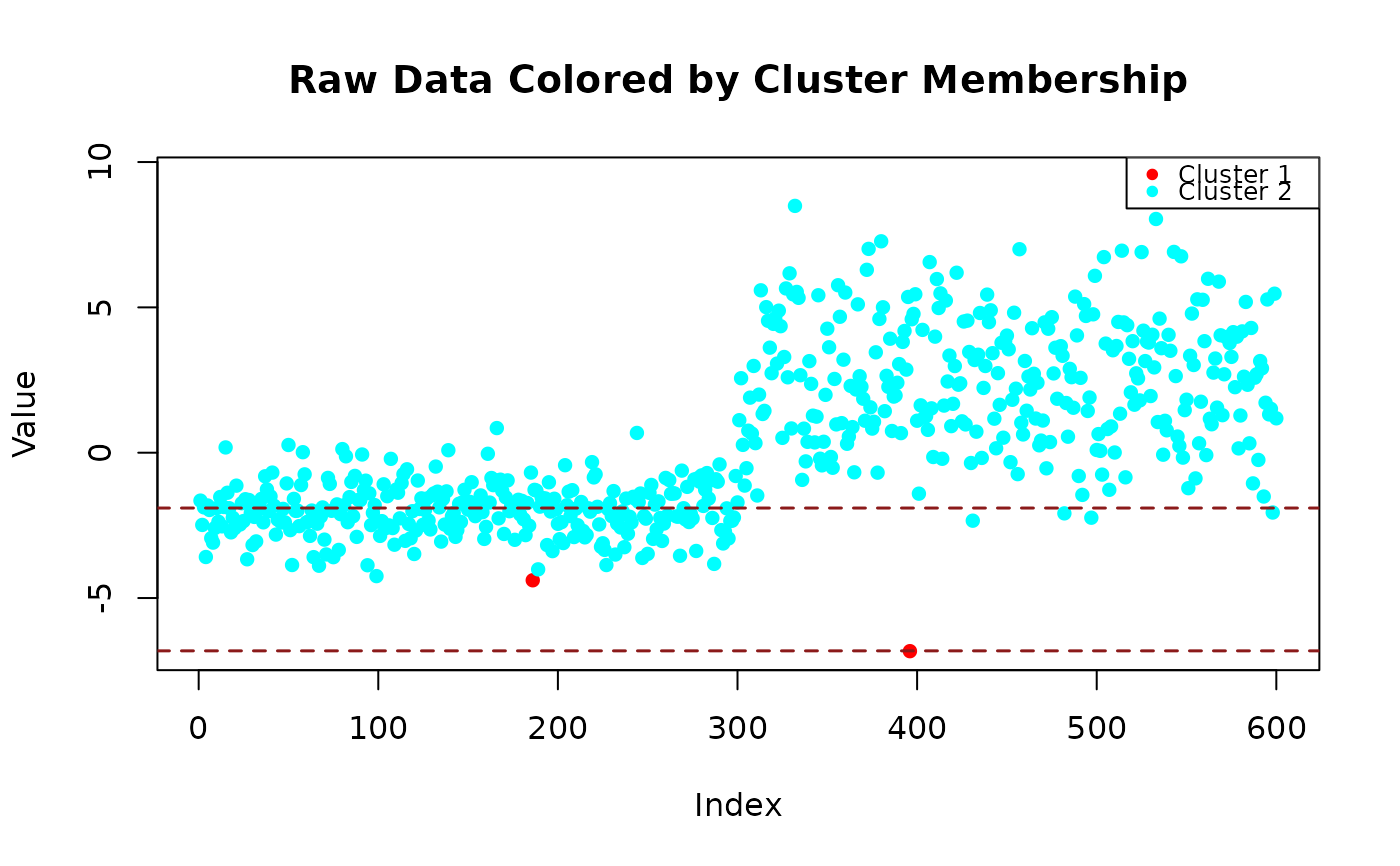
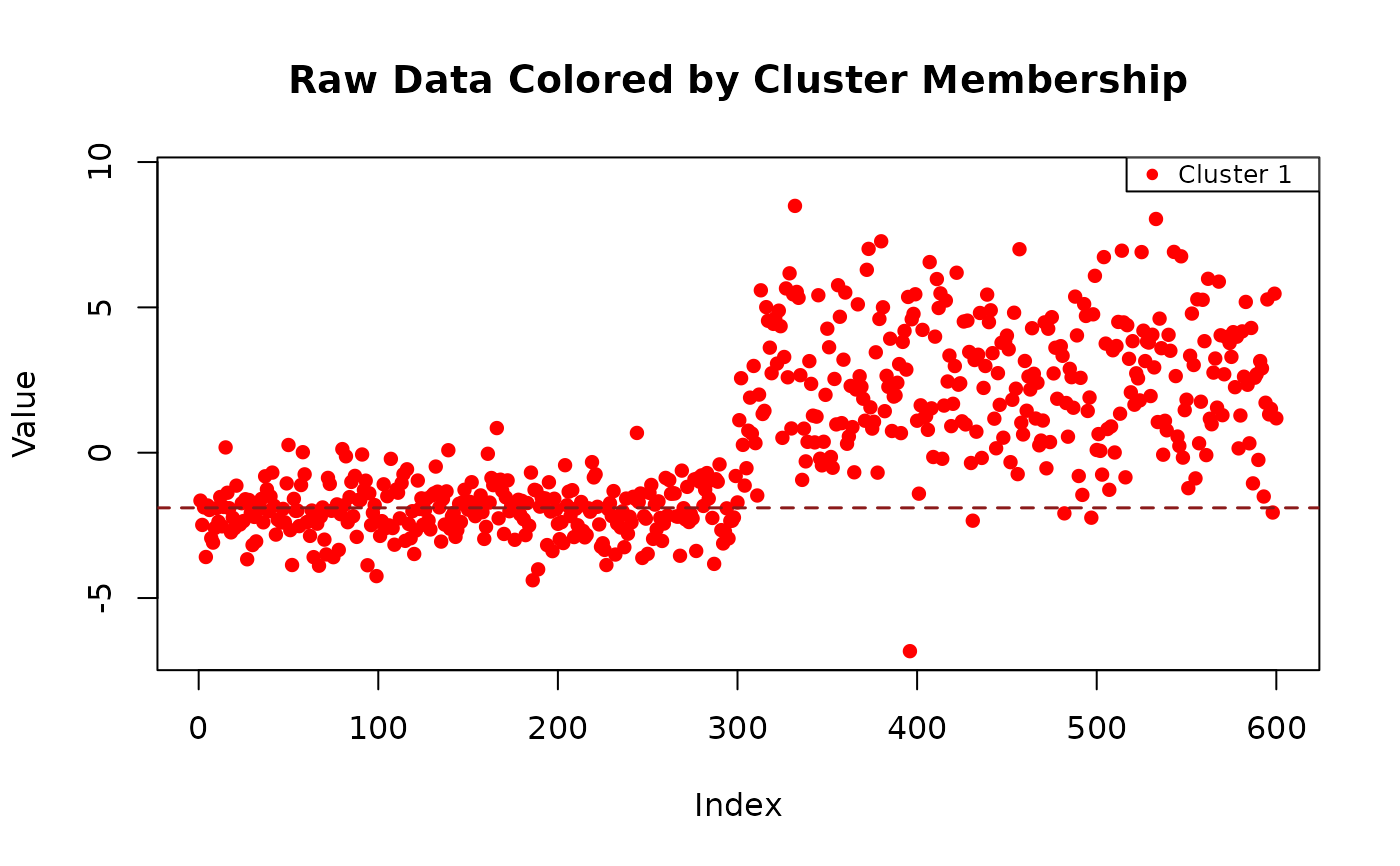
Deploying to gh-pages from @ jcunow/RootScanR@da8b1179eacbaf82645a6c7e2d52472cd3d2838b 🚀

diff --git a/index.html b/index.html
@@ -65,114 +65,109 @@
   </div>
 </nav><div class="container template-home">
 <div class="row">
-  <main id="main" class="col-md-9"><div class="section level1">
-<div class="page-header"><h1 id="rootscanr---r-package">RootScanR - R package<a class="anchor" aria-label="anchor" href="#rootscanr---r-package"></a>
-</h1></div>
-<p><br></p>
+  <main id="main" class="col-md-9"><hr>
 <div class="section level2">
-<h2 id="overview">Overview<a class="anchor" aria-label="anchor" href="#overview"></a>
+<h2 id="rootscanr-extract-root-traits-from-images">RootScanR: Extract Root Traits from Images<a class="anchor" aria-label="anchor" href="#rootscanr-extract-root-traits-from-images"></a>
 </h2>
-<p><em>RootScanR</em> is a package which has been designed to make the analysis of minirhizotron root scans just a little less stupid. The package relies on prior Image segmentation. We recommend using <em>RootDetector</em> or <em>RootPainter</em>. This packages enables the user to map various root features to a continue s depth distributions. The user has the choice to include the tube insertion angle and tube diameter - or ignore it (?). Rotational bias of root prevalence can be tested. Let me know if you have questions, improvements, or found bugs &amp; errors.</p>
-<pre><code><span><span class="co"># install the package</span></span>
-<span><span class="kw">if</span> <span class="op">(</span><span class="op">!</span><span class="kw"><a href="https://rdrr.io/r/base/library.html" class="external-link">require</a></span><span class="op">(</span><span class="st"><a href="https://devtools.r-lib.org/" class="external-link">"devtools"</a></span><span class="op">)</span><span class="op">)</span> <span class="op">{</span></span>
-<span>  <span class="fu"><a href="https://rdrr.io/r/utils/install.packages.html" class="external-link">install.packages</a></span><span class="op">(</span><span class="st">"devtools"</span><span class="op">)</span></span>
-<span><span class="op">}</span></span>
-<span><span class="fu">devtools</span><span class="fu">::</span><span class="fu">install_github</span><span class="op">(</span><span class="st">"jcunow/RootScanR"</span><span class="op">)</span></span></code></pre>
+<p>output: distill::distill_article description: “R tools for root trait extraction from flatbed and minirhizotron images.” —</p>
+<p><a href="https://jcunow.github.io/RootScanR/"><img src="https://img.shields.io/badge/docs-pkgdown-blue.svg" alt="pkgdown"></a></p>
+<hr>
+<p>Welcome to <strong>RootScanR</strong>, an R package designed to extract quantitative belowground traits from <strong>flatbed root scans</strong> and <strong>minirhizotron image sequences</strong>. It provides flexible image preprocessing, trait estimation like root length &amp; diameter, depth mapping, and distribution tools.</p>
+</div>
+<div class="section level2">
+<h2 id="id_-what-can-rootscanr-do">💡 What can RootScanR do?<a class="anchor" aria-label="anchor" href="#id_-what-can-rootscanr-do"></a>
+</h2>
+<ul>
+<li>🖼️ Clean and process binary root images</li>
+<li>🌱 Estimate root length (skeletonize and Kimura Root Length)</li>
+<li>📏 Measure root diameters and modal distributions</li>
+<li>🕸️ Analyze root architecture (branching points, MST, loopiness)</li>
+<li><h2 id="id_-spatial-spatial-indecies-root-angle-distribution-rotation-bias">🥕 Spatial-spatial indecies (root angle distribution, rotation bias)</h2></li>
+</ul>
+</div>
+<div class="section level2">
+<h2 id="id_-tutorials">📘 Tutorials<a class="anchor" aria-label="anchor" href="#id_-tutorials"></a>
+</h2>
+<p>Jump straight into hands-on tutorials:</p>
+<ul>
+<li>📄 <a href="articles/FlatBedScans_vignettes.html">Flatbed Scan Workflow</a>
+</li>
+<li>📄 <a href="articles/MinirhizotronScans_vignettes.html">Minirhizotron Workflow</a>
+</li>
+<li>📄 <a href="articles/Rotation_Bias_vignettes.html">Rotation Bias Correction</a>
+</li>
+</ul>
+<p>Each tutorial includes code, images, overlays, and tips for interpretation.</p>
 <hr>
 <p><br></p>
 </div>
 <div class="section level2">
-<h2 id="calibration">Calibration<a class="anchor" aria-label="anchor" href="#calibration"></a>
+<h2 id="id_-quick-start">🚀 Quick Start<a class="anchor" aria-label="anchor" href="#id_-quick-start"></a>
 </h2>
-<p>More accurate results require easy to gather <em>in-situ</em> calibration of each tube. Traditionally, the assumption is that all tube have been installed perfectly, i.e., exact same insertion angle, insertion depth, same scanner rotation position, and tape overshoot for each tube. RootScanR offers the possibility to approximate the soil start and rotation center based an assumption of well-taped tubes.</p>
-<ol style="list-style-type: decimal">
-<li>Soil Surface Position Estimation</li>
-</ol>
-<pre><code><span><span class="va">start.soil</span> <span class="op">=</span> <span class="fu">SoilSurfE</span><span class="op">(</span><span class="va">img</span><span class="op">)</span></span></code></pre>
-<ol start="2" style="list-style-type: decimal">
-<li>Scanner Rotation Position, Rotation Differences Between Two Scans, and Removal of Scan Edges only present in one Scan and not the other.</li>
-</ol>
-<pre><code><span><span class="fu">RotationE</span><span class="op">(</span><span class="va">img</span><span class="op">)</span></span>
-<span><span class="fu">RotShiftDet</span><span class="op">(</span><span class="va">img1</span>,<span class="va">img2</span><span class="op">)</span></span>
-<span><span class="fu">RotCensor</span><span class="op">(</span><span class="va">img</span>,center.offset <span class="op">=</span> <span class="fl">0.3</span>,fixed.rotation <span class="op">=</span> <span class="cn">FALSE</span><span class="op">)</span></span>
+<div class="sourceCode" id="cb1"><pre class="downlit sourceCode r">
+<code class="sourceCode R"><span><span class="co"># Load example flatbed scan</span></span>
+<span><span class="kw"><a href="https://rdrr.io/r/base/library.html" class="external-link">library</a></span><span class="op">(</span><span class="va"><a href="https://github.com/jcunow/RootScanR" class="external-link">RootScanR</a></span><span class="op">)</span></span>
+<span><span class="kw"><a href="https://rdrr.io/r/base/library.html" class="external-link">library</a></span><span class="op">(</span><span class="va"><a href="https://rspatial.org/" class="external-link">terra</a></span><span class="op">)</span></span>
+<span><span class="fu"><a href="https://rdrr.io/r/utils/data.html" class="external-link">data</a></span><span class="op">(</span><span class="st">"seg_Oulanka2023_Session01_T067"</span><span class="op">)</span></span>
+<span><span class="va">img</span> <span class="op">&lt;-</span> <span class="va">seg_Oulanka2023_Session01_T067</span></span>
 <span></span>
-<span><span class="co"># under construction: estimating rotation by root distribution (assuming top-tube bias)</span></span>
-<span><span class="fu">LR_rhythmicity</span><span class="op">(</span><span class="va">rotation.cuts</span>, <span class="va">root.px</span>, period<span class="op">=</span> <span class="va">number.rotation.slices</span><span class="op">)</span><span class="op">$</span><span class="va">phase</span> <span class="op">*</span> <span class="op">(</span><span class="fu"><a href="https://rdrr.io/r/base/dim.html" class="external-link">dim</a></span><span class="op">(</span><span class="va">roation.cuts</span><span class="op">)</span><span class="op">[</span><span class="fl">1</span><span class="op">]</span><span class="op">/</span><span class="va">number.rotations.slices</span><span class="op">)</span> <span class="op">%&gt;%</span> <span class="fu"><a href="https://rdrr.io/r/base/Round.html" class="external-link">round</a></span><span class="op">(</span><span class="op">)</span></span></code></pre>
-<p><br></p>
-</div>
-<div class="section level2">
-<h2 id="the-core-function-create-a-depthmap">The core function: Create a depthmap<a class="anchor" aria-label="anchor" href="#the-core-function-create-a-depthmap"></a>
-</h2>
-<p>requires: soil surface estimate, rotation center estimate, tube insertion angle, tube diameter, scan resolution</p>
-<ol style="list-style-type: decimal">
-<li>Phase shifted, trimmed sine depth mapping including tube diameter and tube insertion angle</li>
-</ol>
-<pre><code><span><span class="va">depthmap</span> <span class="op">=</span> <span class="fu"><a href="reference/create_depthmap.html">create_depthmap</a></span><span class="op">(</span><span class="va">img</span>,<span class="va">mask</span>, tube.thicc <span class="op">=</span> <span class="fl">7</span>, tilt <span class="op">=</span> <span class="fl">45</span>, dpi <span class="op">=</span> <span class="fl">300</span>, start.soil <span class="op">=</span> <span class="fl">0</span>,center.offset <span class="op">=</span> <span class="fl">0</span><span class="op">)</span></span></code></pre>
-<p><br></p>
-</div>
-<div class="section level2">
-<h2 id="zoning---create-analytical-units">Zoning - Create analytical units<a class="anchor" aria-label="anchor" href="#zoning---create-analytical-units"></a>
-</h2>
-<p>Creates discrete sub-units of the whole image. This determines the resolution of the depth distributions. Currently, the package only supports analysis within discrete depth bands. Future releases will tackle response functions on continuous depth.</p>
-<ol style="list-style-type: decimal">
-<li>Depth-wise zoning</li>
-</ol>
-<pre><code><span><span class="va">binned.map</span> <span class="op">=</span> <span class="fu"><a href="reference/binning.html">binning</a></span><span class="op">(</span><span class="va">depthmap</span>, nn <span class="op">=</span> <span class="fl">1</span>,<span class="st">"rounding"</span><span class="op">)</span></span>
-<span><span class="va">root.zone</span> <span class="op">=</span> <span class="fu">zone.fun</span><span class="op">(</span><span class="va">img</span>, <span class="va">binned.map</span>, indexD <span class="op">=</span> <span class="fl">5</span>, nn <span class="op">=</span> <span class="fl">1</span><span class="op">)</span></span></code></pre>
-<p><br></p>
-</div>
-<div class="section level2">
-<h2 id="feature-extractions">Feature Extractions<a class="anchor" aria-label="anchor" href="#feature-extractions"></a>
-</h2>
-<ol style="list-style-type: decimal">
-<li>Parameter from segmented image cut</li>
-</ol>
-<pre><code><span><span class="fu">RootScapeMetrics</span><span class="op">(</span><span class="va">root.zone</span>, metrics <span class="op">=</span> <span class="fu"><a href="https://rdrr.io/r/base/c.html" class="external-link">c</a></span><span class="op">(</span><span class="st">"lsm_c_ca"</span>,<span class="st">"lsm_c_pland"</span>,<span class="st">"lsm_c_enn_mn"</span><span class="op">)</span><span class="op">)</span></span>
-<span><span class="va">Root.px</span> <span class="op">=</span> <span class="fu">count_pixel</span><span class="op">(</span><span class="va">root.zone</span><span class="op">)</span></span></code></pre>
-<ol start="2" style="list-style-type: decimal">
-<li>Parameter from skeletonized image cut</li>
-</ol>
-<pre><code><span><span class="va">root.zone.skl</span> <span class="op">=</span> <span class="fu"><a href="reference/skeletonize_image.html">skeletonize_image</a></span><span class="op">(</span><span class="va">root.zone</span>, method <span class="op">=</span> <span class="st">"MAT"</span>, layer <span class="op">=</span> <span class="fl">2</span><span class="op">)</span></span>
-<span><span class="va">RL</span> <span class="op">=</span> <span class="fu"><a href="reference/root_length.html">root_length</a></span><span class="op">(</span><span class="va">root.zone.skeleton</span><span class="op">)</span></span></code></pre>
-<ol start="3" style="list-style-type: decimal">
-<li>Combine both</li>
-</ol>
-<pre><code><span><span class="fu">root.thickness</span><span class="op">(</span><span class="va">Root.px</span>, <span class="va">RL</span><span class="op">)</span></span></code></pre>
-<ol start="4" style="list-style-type: decimal">
-<li>Parameter from RGB image cut</li>
-</ol>
-<pre><code><span><span class="va">Rhizosphere</span> <span class="op">=</span> <span class="fu">Halo</span><span class="op">(</span><span class="va">root.zone</span>, width <span class="op">=</span> <span class="fl">5</span>, halo.only <span class="op">=</span> <span class="cn">FALSE</span><span class="op">)</span></span>
-<span><span class="va">soil</span> <span class="op">=</span> <span class="va">rgb.img</span><span class="op">[</span><span class="va">Rhizosphere</span> <span class="op">==</span> <span class="fl">1</span><span class="op">]</span> <span class="op">&lt;</span> <span class="op">-</span> <span class="cn">NA</span></span>
-<span><span class="fu"><a href="reference/analyze_soil_texture.html">analyze_soil_texture</a></span><span class="op">(</span><span class="va">soil</span><span class="op">)</span></span>
-<span><span class="va">soil.color</span> <span class="op">=</span> <span class="fu"><a href="reference/tube_coloration.html">tube_coloration</a></span><span class="op">(</span><span class="va">soil</span><span class="op">)</span></span></code></pre>
-<ol start="5" style="list-style-type: decimal">
-<li>Turnover - either two images from different time points, or the ‘RootDetector’ root tracking output</li>
-</ol>
-<pre><code><span><span class="fu"><a href="reference/turnover_tc.html">turnover_tc</a></span><span class="op">(</span><span class="va">root.zone1</span>,<span class="va">root.zone2</span>, method <span class="op">=</span> <span class="st">"kimura"</span>,dpi <span class="op">=</span> <span class="fl">300</span>, unit <span class="op">=</span> <span class="st">"cm"</span><span class="op">)</span></span>
-<span><span class="fu"><a href="reference/turnover_dpc.html">turnover_dpc</a></span><span class="op">(</span><span class="va">root.zone.dpc</span>, product.layer <span class="op">=</span> <span class="fl">2</span>, decay.layer <span class="op">=</span> <span class="fl">1</span>, im.return <span class="op">=</span> <span class="cn">F</span><span class="op">)</span></span></code></pre>
-<p><br></p>
-</div>
-<div class="section level2">
-<h2 id="rotational-bias">Rotational Bias<a class="anchor" aria-label="anchor" href="#rotational-bias"></a>
-</h2>
-<ol style="list-style-type: decimal">
-<li>Rotational zoning, Feature Extraction,</li>
-</ol>
-<pre><code><span><span class="va">rotation.rootpx</span> <span class="op">=</span> <span class="fu"><a href="https://rdrr.io/r/base/data.frame.html" class="external-link">data.frame</a></span><span class="op">(</span>kk <span class="op">=</span> <span class="fl">1</span><span class="op">:</span><span class="fl">12</span>,px <span class="op">=</span> <span class="cn">NA</span><span class="op">)</span></span>
+<span><span class="co"># Preprocess and extract traits</span></span>
+<span><span class="va">binary</span> <span class="op">&lt;-</span> <span class="fu"><a href="reference/load_flexible_image.html">load_flexible_image</a></span><span class="op">(</span><span class="va">img</span><span class="op">)</span></span>
+<span><span class="va">cleaned</span> <span class="op">&lt;-</span> <span class="fu"><a href="reference/clean_image.html">clean_image</a></span><span class="op">(</span><span class="va">binary</span>, max_artifact_size <span class="op">=</span> <span class="fl">5</span>, max_hole_size <span class="op">=</span> <span class="fl">5</span>, select.layer <span class="op">=</span> <span class="fl">2</span><span class="op">)</span></span>
+<span><span class="va">skel</span> <span class="op">&lt;-</span> <span class="fu"><a href="reference/skeletonize_image.html">skeletonize_image</a></span><span class="op">(</span><span class="va">cleaned</span>,  methods <span class="op">=</span> <span class="st">"GuoHall"</span>, verbose <span class="op">=</span> <span class="cn">F</span><span class="op">)</span></span>
 <span></span>
-<span><span class="kw">for</span><span class="op">(</span><span class="va">i</span> <span class="kw">in</span> <span class="va">rotation.rootpx</span><span class="op">)</span><span class="op">{</span></span>
-<span><span class="va">rotation.zone</span> <span class="op">=</span> <span class="fu">zone.rotation.fun</span><span class="op">(</span><span class="va">img</span>,k <span class="op">=</span> <span class="fu"><a href="https://rdrr.io/r/base/c.html" class="external-link">c</a></span><span class="op">(</span><span class="va">i</span><span class="op">-</span><span class="fl">1</span>,<span class="va">i</span><span class="op">)</span>,kk <span class="op">=</span> <span class="fl">12</span>, mm <span class="op">=</span> <span class="fu"><a href="https://rdrr.io/r/base/c.html" class="external-link">c</a></span><span class="op">(</span><span class="fl">1500</span>,<span class="fl">5000</span><span class="op">)</span><span class="op">)</span></span>
-<span><span class="va">rotation.rootpx</span><span class="op">$</span><span class="va">px</span><span class="op">[</span><span class="va">i</span>,<span class="op">]</span> <span class="op">=</span> <span class="fu">count_pixel</span><span class="op">(</span><span class="va">rotation.zone</span><span class="op">)</span></span>
-<span><span class="op">}</span></span>
-<span></span></code></pre>
-<ol start="2" style="list-style-type: decimal">
-<li>Test Amplitude Difference Can be used to text e.g., differences in top-bottom-tube bias between varying insertion angle or tube diameter To test differences between sinus fits, we make use of the diffCircadian package <a href="https://github.com/diffCircadian/diffCircadian" class="external-link uri">https://github.com/diffCircadian/diffCircadian</a>
-</li>
-</ol>
-<pre><code><span><span class="fu">fitSinCurve</span><span class="op">(</span><span class="va">rotation.rootpx</span><span class="op">$</span><span class="va">px</span>,period <span class="op">=</span> <span class="fl">12</span><span class="op">)</span></span>
-<span><span class="fu">LTTest_diff_amp</span><span class="op">(</span><span class="va">img1_rotation.rootpx</span><span class="op">$</span><span class="va">px</span>,<span class="va">img2_rotation.rootpx</span><span class="op">$</span><span class="va">px</span><span class="op">)</span></span></code></pre>
+<span><span class="co"># Length and diameter</span></span>
+<span><span class="fu"><a href="reference/root_length.html">root_length</a></span><span class="op">(</span><span class="va">skel</span>, unit <span class="op">=</span> <span class="st">"cm"</span>, dpi <span class="op">=</span> <span class="fl">150</span><span class="op">)</span></span>
+<span><span class="va">diam_map</span> <span class="op">&lt;-</span> <span class="fu"><a href="reference/root_diameter.html">root_diameter</a></span><span class="op">(</span><span class="va">cleaned</span>, unit <span class="op">=</span> <span class="st">"cm"</span>, dpi <span class="op">=</span> <span class="fl">150</span>, select.layer <span class="op">=</span> <span class="cn">NULL</span> <span class="op">)</span></span>
+<span><span class="fu"><a href="reference/modal_peaks.html">modal_peaks</a></span><span class="op">(</span><span class="va">diam_map</span><span class="op">$</span><span class="va">diameters</span>, prominence_threshold <span class="op">=</span> <span class="fl">10</span>, mclust <span class="op">=</span> <span class="cn">F</span>, adjust <span class="op">=</span> <span class="fl">5</span>, display_type <span class="op">=</span> <span class="st">"density"</span><span class="op">)</span></span>
+<span></span>
+<span></span>
+<span><span class="co"># Architecture</span></span>
+<span><span class="va">metrics</span> <span class="op">&lt;-</span> <span class="fu"><a href="reference/detect_skeleton_points.html">detect_skeleton_points</a></span><span class="op">(</span><span class="va">skel</span><span class="op">)</span></span>
+<span><span class="fu"><a href="https://rdrr.io/r/base/print.html" class="external-link">print</a></span><span class="op">(</span><span class="va">metrics</span><span class="op">)</span></span>
+<span></span>
+<span><span class="co"># Visualize</span></span>
+<span><span class="fu">terra</span><span class="fu">::</span><span class="fu"><a href="https://rspatial.github.io/terra/reference/plot.html" class="external-link">plot</a></span><span class="op">(</span><span class="va">diam_map</span><span class="op">$</span><span class="va">diameter_rast</span><span class="op">)</span></span>
+<span><span class="fu">terra</span><span class="fu">::</span><span class="fu"><a href="https://rspatial.github.io/terra/reference/plot.html" class="external-link">plot</a></span><span class="op">(</span><span class="va">skel</span><span class="op">)</span></span></code></pre></div>
+<hr>
+</div>
+<div class="section level2">
+<h2 id="id_-reference--citation">📚 Reference &amp; Citation<a class="anchor" aria-label="anchor" href="#id_-reference--citation"></a>
+</h2>
+<p>To cite <code>RootScanR</code>, please use the relevant methods cited in the vignettes:</p>
+<ul>
+<li>Kimura et al. (1999) – Pixel-based root length estimation</li>
+<li>Zhang &amp; Suen (1984) – Skeletonization</li>
+<li>Otsu (1979) – Thresholding</li>
+<li>Scrucca et al. (2016) – Model-based clustering (Mclust)</li>
+</ul>
+<p>You can also generate the full citation in R:</p>
+<div class="sourceCode" id="cb2"><pre class="downlit sourceCode r">
+<code class="sourceCode R"><span><span class="fu"><a href="https://rdrr.io/r/utils/citation.html" class="external-link">citation</a></span><span class="op">(</span><span class="st">"RootScanR"</span><span class="op">)</span></span></code></pre></div>
+<hr>
+</div>
+<div class="section level2">
+<h2 id="id_-news--updates">📢 News &amp; Updates<a class="anchor" aria-label="anchor" href="#id_-news--updates"></a>
+</h2>
+<p>See the <a href="news/index.html">News page</a> for the latest changes and version notes.</p>
+<hr>
+</div>
+<div class="section level2">
+<h2 id="id_-documentation">🔍 Documentation<a class="anchor" aria-label="anchor" href="#id_-documentation"></a>
+</h2>
+<ul>
+<li><a href="reference/index.html">Function reference</a></li>
+<li><a href="articles/index.html">Vignettes</a></li>
+<li><a href="https://github.com/jcunow/RootScanR" class="external-link">Source code on GitHub</a></li>
+</ul>
+<hr>
+<div class="section level3">
+<h3 id="id_-contributions--issues">🙌 Contributions &amp; Issues<a class="anchor" aria-label="anchor" href="#id_-contributions--issues"></a>
+</h3>
+<p>Found a bug or have a feature request? Please <a href="https://github.com/jcunow/RootScanR/issues" class="external-link">open an issue</a> or submit a pull request.</p>
 </div>
 </div>
+
   </main><aside class="col-md-3"><div class="links">
 <h2 data-toc-skip>Links</h2>
 <ul class="list-unstyled">

diff --git a/reference/clean_image.html b/reference/clean_image.html
@@ -47,7 +47,7 @@
   <main id="main" class="col-md-9"><div class="page-header">
 
       <h1>Clean binary images by filling holes, removing small artifacts, and optionally smoothing edges</h1>
-      <small class="dont-index">Source: <a href="https://github.com/jcunow/RootScanR/blob/main/R/clean_binary_image.R" class="external-link"><code>R/clean_binary_image.R</code></a></small>
+      <small class="dont-index">Source: <a href="https://github.com/jcunow/RootScanR/blob/main/R/clean_image.R" class="external-link"><code>R/clean_image.R</code></a></small>
       <div class="d-none name"><code>clean_image.Rd</code></div>
     </div>
 
@@ -68,6 +68,7 @@
 <span>  kernel_shape <span class="op">=</span> <span class="st">"disk"</span>,</span>
 <span>  kernel_size <span class="op">=</span> <span class="fl">3</span>,</span>
 <span>  iterations <span class="op">=</span> <span class="fl">1</span>,</span>
+<span>  select.layer <span class="op">=</span> <span class="cn">NULL</span>,</span>
 <span>  report <span class="op">=</span> <span class="cn">FALSE</span></span>
 <span><span class="op">)</span></span></code></pre></div>
     </div>
@@ -162,10 +163,10 @@
 <span class="r-in"><span></span></span>
 <span class="r-in"><span><span class="co"># Plot results</span></span></span>
 <span class="r-in"><span><span class="fu"><a href="https://rdrr.io/r/graphics/par.html" class="external-link">par</a></span><span class="op">(</span>mfrow <span class="op">=</span> <span class="fu"><a href="https://rdrr.io/r/base/c.html" class="external-link">c</a></span><span class="op">(</span><span class="fl">2</span>, <span class="fl">2</span><span class="op">)</span><span class="op">)</span></span></span>
-<span class="r-in"><span><span class="fu"><a href="https://rdrr.io/r/graphics/plot.default.html" class="external-link">plot</a></span><span class="op">(</span><span class="va">img</span>, main <span class="op">=</span> <span class="st">"Original"</span><span class="op">)</span></span></span>
-<span class="r-in"><span><span class="fu"><a href="https://rdrr.io/r/graphics/plot.default.html" class="external-link">plot</a></span><span class="op">(</span><span class="va">cleaned1</span>, main <span class="op">=</span> <span class="st">"Fill ≤50, Remove ≤10"</span><span class="op">)</span></span></span>
-<span class="r-in"><span><span class="fu"><a href="https://rdrr.io/r/graphics/plot.default.html" class="external-link">plot</a></span><span class="op">(</span><span class="va">cleaned2</span>, main <span class="op">=</span> <span class="st">"Fill ≤20, Remove ≤30"</span><span class="op">)</span></span></span>
-<span class="r-in"><span><span class="fu"><a href="https://rdrr.io/r/graphics/plot.default.html" class="external-link">plot</a></span><span class="op">(</span><span class="va">cleaned3</span>, main <span class="op">=</span> <span class="st">"Fill ≤30, Remove ≤20 + Smooth"</span><span class="op">)</span></span></span>
+<span class="r-in"><span><span class="fu"><a href="https://rspatial.github.io/terra/reference/plot.html" class="external-link">plot</a></span><span class="op">(</span><span class="va">img</span>, main <span class="op">=</span> <span class="st">"Original"</span><span class="op">)</span></span></span>
+<span class="r-in"><span><span class="fu"><a href="https://rspatial.github.io/terra/reference/plot.html" class="external-link">plot</a></span><span class="op">(</span><span class="va">cleaned1</span>, main <span class="op">=</span> <span class="st">"Fill ≤50, Remove ≤10"</span><span class="op">)</span></span></span>
+<span class="r-in"><span><span class="fu"><a href="https://rspatial.github.io/terra/reference/plot.html" class="external-link">plot</a></span><span class="op">(</span><span class="va">cleaned2</span>, main <span class="op">=</span> <span class="st">"Fill ≤20, Remove ≤30"</span><span class="op">)</span></span></span>
+<span class="r-in"><span><span class="fu"><a href="https://rspatial.github.io/terra/reference/plot.html" class="external-link">plot</a></span><span class="op">(</span><span class="va">cleaned3</span>, main <span class="op">=</span> <span class="st">"Fill ≤30, Remove ≤20 + Smooth"</span><span class="op">)</span></span></span>
 <span class="r-plt img"><img src="clean_image-1.png" alt="" width="700" height="433"></span>
 <span class="r-in"><span><span class="fu"><a href="https://rdrr.io/r/graphics/par.html" class="external-link">par</a></span><span class="op">(</span>mfrow <span class="op">=</span> <span class="fu"><a href="https://rdrr.io/r/base/c.html" class="external-link">c</a></span><span class="op">(</span><span class="fl">1</span>, <span class="fl">1</span><span class="op">)</span><span class="op">)</span></span></span>
 </code></pre></div>

diff --git a/reference/modal_peaks.html b/reference/modal_peaks.html
@@ -61,7 +61,8 @@ using `mclust` to estimate the number and characteristics of distributional comp
 <span>  <span class="va">x</span>,</span>
 <span>  prominence_threshold <span class="op">=</span> <span class="fl">0.005</span>,</span>
 <span>  display_type <span class="op">=</span> <span class="st">"density"</span>,</span>
-<span>  mclust <span class="op">=</span> <span class="cn">TRUE</span></span>
+<span>  adjust <span class="op">=</span> <span class="fl">1</span>,</span>
+<span>  mclust <span class="op">=</span> <span class="cn">FALSE</span></span>
 <span><span class="op">)</span></span></code></pre></div>
     </div>
 
@@ -79,6 +80,10 @@ using `mclust` to estimate the number and characteristics of distributional comp
 
 <dt id="arg-display-type">display_type<a class="anchor" aria-label="anchor" href="#arg-display-type"></a></dt>
 <dd><p>Type of plot to display: `"density"` (default), `"raw"` for colored points, or `"none"` for no plot.</p></dd>
+
+
+<dt id="arg-adjust">adjust<a class="anchor" aria-label="anchor" href="#arg-adjust"></a></dt>
+<dd><p>numeric. Adjusts the size of the density kernel. Higher values lead to more smoothing.</p></dd>
 
 
 <dt id="arg-mclust">mclust<a class="anchor" aria-label="anchor" href="#arg-mclust"></a></dt>
@@ -136,10 +141,10 @@ and the results are returned along with a classification vector.</p>
 <span class="r-in"><span><span class="co"># Example 2: Noisy Bimodal</span></span></span>
 <span class="r-in"><span><span class="va">x2</span> <span class="op">&lt;-</span> <span class="fu"><a href="https://rdrr.io/r/base/c.html" class="external-link">c</a></span><span class="op">(</span><span class="fu"><a href="https://rdrr.io/r/stats/Normal.html" class="external-link">rnorm</a></span><span class="op">(</span><span class="fl">300</span>, <span class="op">-</span><span class="fl">2</span>, <span class="fl">0.9</span><span class="op">)</span>, <span class="fu"><a href="https://rdrr.io/r/stats/Normal.html" class="external-link">rnorm</a></span><span class="op">(</span><span class="fl">300</span>, <span class="fl">2.5</span>, <span class="fl">2.3</span><span class="op">)</span><span class="op">)</span> <span class="op">+</span> <span class="fu"><a href="https://rdrr.io/r/stats/Uniform.html" class="external-link">runif</a></span><span class="op">(</span><span class="fl">600</span>, <span class="op">-</span><span class="fl">0.2</span>, <span class="fl">0.2</span><span class="op">)</span></span></span>
 <span class="r-in"><span><span class="va">peaks2_1</span> <span class="op">=</span> <span class="fu">modal_peaks</span><span class="op">(</span><span class="va">x2</span>, prominence_threshold <span class="op">=</span> <span class="fl">0.0001</span>, mclust <span class="op">=</span> <span class="cn">FALSE</span>, display_type <span class="op">=</span> <span class="st">"density"</span><span class="op">)</span></span></span>
-<span class="r-msg co"><span class="r-pr">#&gt;</span> The distribution is bimodal (2 peaks detected).</span>
+<span class="r-msg co"><span class="r-pr">#&gt;</span> The distribution is unimodal (1 peak detected).</span>
 <span class="r-plt img"><img src="modal_peaks-2.png" alt="" width="700" height="433"></span>
 <span class="r-in"><span><span class="va">peaks2_2</span> <span class="op">=</span><span class="fu">modal_peaks</span><span class="op">(</span><span class="va">x2</span>, prominence_threshold <span class="op">=</span> <span class="fl">0.0001</span>, mclust <span class="op">=</span> <span class="cn">FALSE</span>, display_type <span class="op">=</span> <span class="st">"raw"</span><span class="op">)</span></span></span>
-<span class="r-msg co"><span class="r-pr">#&gt;</span> The distribution is bimodal (2 peaks detected).</span>
+<span class="r-msg co"><span class="r-pr">#&gt;</span> The distribution is unimodal (1 peak detected).</span>
 <span class="r-plt img"><img src="modal_peaks-3.png" alt="" width="700" height="433"></span>
 <span class="r-in"><span><span class="co">#peaks2_3 =modal_peaks(x2, prominence_threshold = 0.0001, mclust = TRUE, display_type = "raw")</span></span></span>
 </code></pre></div>

diff --git a/reference/thin_image_steepest_ascend.html b/reference/thin_image_steepest_ascend.html
@@ -101,7 +101,8 @@ tracing process.</p>
     <h2 id="ref-examples">Examples<a class="anchor" aria-label="anchor" href="#ref-examples"></a></h2>
     <div class="sourceCode"><pre class="sourceCode r"><code><span class="r-in"><span><span class="kw">if</span> <span class="op">(</span><span class="cn">FALSE</span><span class="op">)</span> <span class="op">{</span> <span class="co"># \dontrun{</span></span></span>
 <span class="r-in"><span><span class="co"># Load and skeletonize an image</span></span></span>
-<span class="r-in"><span><span class="va">skeleton</span> <span class="op">&lt;-</span> <span class="fu">thin_image_steepest_ascend</span><span class="op">(</span><span class="va">binary_image</span><span class="op">)</span></span></span>
+<span class="r-in"><span><span class="va">raster</span> <span class="op">&lt;-</span> <span class="fu">terra</span><span class="fu">::</span><span class="fu"><a href="https://rspatial.github.io/terra/reference/rast.html" class="external-link">rast</a></span><span class="op">(</span><span class="fu"><a href="https://rdrr.io/r/base/matrix.html" class="external-link">matrix</a></span><span class="op">(</span><span class="fu"><a href="https://rdrr.io/r/base/c.html" class="external-link">c</a></span><span class="op">(</span><span class="fl">0</span>, <span class="fl">1</span>, <span class="fl">1</span>, <span class="fl">0</span>, <span class="fl">0</span>, <span class="fl">1</span>, <span class="fl">1</span>, <span class="fl">0</span>,<span class="fl">0</span><span class="op">)</span>, nrow <span class="op">=</span> <span class="fl">3</span><span class="op">)</span><span class="op">)</span></span></span>
+<span class="r-in"><span><span class="va">skeleton</span> <span class="op">&lt;-</span> <span class="fu">thin_image_steepest_ascend</span><span class="op">(</span><span class="va">raster</span><span class="op">)</span></span></span>
 <span class="r-in"><span></span></span>
 <span class="r-in"><span><span class="co"># Visualize the result</span></span></span>
 <span class="r-in"><span><span class="fu"><a href="https://rspatial.github.io/terra/reference/plot.html" class="external-link">plot</a></span><span class="op">(</span><span class="fu">as.cimg</span><span class="op">(</span><span class="va">skeleton</span><span class="op">)</span><span class="op">)</span></span></span>

diff --git a/reference/create_kernel.html b/reference/create_kernel.html
@@ -41,7 +41,7 @@
   <main id="main" class="col-md-9"><div class="page-header">
 
       <h1>Create a kernel with specified shape for morphological operations</h1>
-      <small class="dont-index">Source: <a href="https://github.com/jcunow/RootScanR/blob/main/R/clean_binary_image.R" class="external-link"><code>R/clean_binary_image.R</code></a></small>
+      <small class="dont-index">Source: <a href="https://github.com/jcunow/RootScanR/blob/main/R/clean_image.R" class="external-link"><code>R/clean_image.R</code></a></small>
       <div class="d-none name"><code>create_kernel.Rd</code></div>
     </div>
 

diff --git a/reference/fill_holes.html b/reference/fill_holes.html
@@ -41,7 +41,7 @@
   <main id="main" class="col-md-9"><div class="page-header">
 
       <h1>Fill holes in binary images</h1>
-      <small class="dont-index">Source: <a href="https://github.com/jcunow/RootScanR/blob/main/R/clean_binary_image.R" class="external-link"><code>R/clean_binary_image.R</code></a></small>
+      <small class="dont-index">Source: <a href="https://github.com/jcunow/RootScanR/blob/main/R/clean_image.R" class="external-link"><code>R/clean_image.R</code></a></small>
       <div class="d-none name"><code>fill_holes.Rd</code></div>
     </div>
 

diff --git a/reference/remove_small_objects.html b/reference/remove_small_objects.html
@@ -41,7 +41,7 @@
   <main id="main" class="col-md-9"><div class="page-header">
 
       <h1>Remove small white artifacts from binary images</h1>
-      <small class="dont-index">Source: <a href="https://github.com/jcunow/RootScanR/blob/main/R/clean_binary_image.R" class="external-link"><code>R/clean_binary_image.R</code></a></small>
+      <small class="dont-index">Source: <a href="https://github.com/jcunow/RootScanR/blob/main/R/clean_image.R" class="external-link"><code>R/clean_image.R</code></a></small>
       <div class="d-none name"><code>remove_small_objects.Rd</code></div>
     </div>
 

diff --git a/reference/report_image_components.html b/reference/report_image_components.html
@@ -41,7 +41,7 @@
   <main id="main" class="col-md-9"><div class="page-header">
 
       <h1>Report sizes of holes and white artifacts in binary images</h1>
-      <small class="dont-index">Source: <a href="https://github.com/jcunow/RootScanR/blob/main/R/clean_binary_image.R" class="external-link"><code>R/clean_binary_image.R</code></a></small>
+      <small class="dont-index">Source: <a href="https://github.com/jcunow/RootScanR/blob/main/R/clean_image.R" class="external-link"><code>R/clean_image.R</code></a></small>
       <div class="d-none name"><code>report_image_components.Rd</code></div>
     </div>
 

diff --git a/reference/root_diameter.html b/reference/root_diameter.html
@@ -57,7 +57,7 @@ The input can be a file path, raster, image object, or array, which is converted
     <div class="sourceCode"><pre class="sourceCode r"><code><span><span class="fu">root_diameter</span><span class="op">(</span></span>
 <span>  <span class="va">img</span>,</span>
 <span>  skeleton_method <span class="op">=</span> <span class="st">"GuoHall"</span>,</span>
-<span>  select.layer <span class="op">=</span> <span class="fl">2</span>,</span>
+<span>  select.layer <span class="op">=</span> <span class="cn">NULL</span>,</span>
 <span>  diagnostics <span class="op">=</span> <span class="cn">FALSE</span>,</span>
 <span>  unit <span class="op">=</span> <span class="st">"cm"</span>,</span>
 <span>  dpi <span class="op">=</span> <span class="fl">300</span></span>

diff --git a/reference/smooth_root_edges.html b/reference/smooth_root_edges.html
@@ -41,7 +41,7 @@
   <main id="main" class="col-md-9"><div class="page-header">
 
       <h1>Smooth the edges of a root binary image</h1>
-      <small class="dont-index">Source: <a href="https://github.com/jcunow/RootScanR/blob/main/R/clean_binary_image.R" class="external-link"><code>R/clean_binary_image.R</code></a></small>
+      <small class="dont-index">Source: <a href="https://github.com/jcunow/RootScanR/blob/main/R/clean_image.R" class="external-link"><code>R/clean_image.R</code></a></small>
       <div class="d-none name"><code>smooth_root_edges.Rd</code></div>
     </div>
 